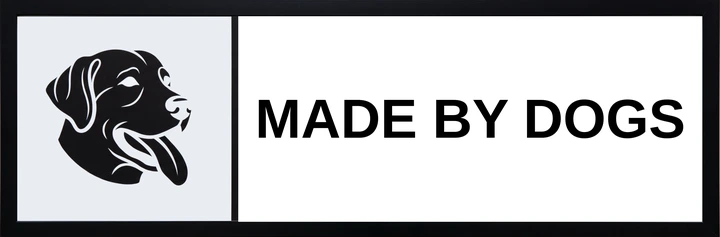
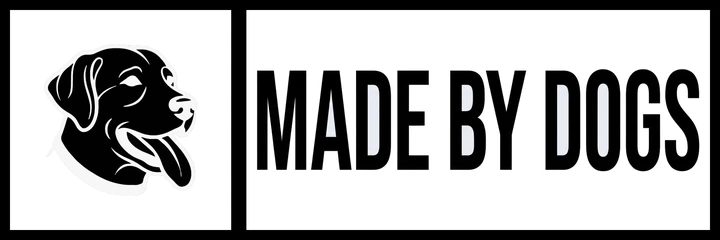
MADE BY DOGS sticker: new main image (uploaded artwork leads the brand files)

diff --git a/index.html b/index.html
@@ -62,21 +62,21 @@
 
   <h2>📦 Brand files — the originals</h2>
   <div class="grid">
-    <a class="tile sticker-tile" href="assets/sticker.webp" download="made-by-dogs-sticker.webp">
-      <div class="thumb light"><img src="assets/sticker.webp" alt="THIS PRODUCT WAS MADE BY DOGS sticker"></div>
-      <div class="lbl">Made by DOGS sticker</div><div class="dl">⤓ WEBP · 360×119</div>
-    </a>
-    <a class="tile sticker-tile" href="assets/sticker-hires.png" download="made-by-dogs-sticker-hires.png">
-      <div class="thumb light"><img src="assets/sticker-hires.png" alt="THIS PRODUCT WAS MADE BY DOGS sticker, high resolution"></div>
-      <div class="lbl">Sticker — high-res / print</div><div class="dl">⤓ PNG · 3584×1184</div>
-    </a>
-    <a class="tile sticker-tile" href="assets/sticker-made-by-dogs.webp" download="made-by-dogs-short-sticker.webp">
+    <a class="tile sticker-tile" href="assets/sticker-made-by-dogs.webp" download="made-by-dogs-sticker.webp">
       <div class="thumb light"><img src="assets/sticker-made-by-dogs.webp" alt="MADE BY DOGS sticker"></div>
-      <div class="lbl">MADE BY DOGS sticker — short</div><div class="dl">⤓ WEBP · 720×237</div>
+      <div class="lbl">MADE BY DOGS sticker — main</div><div class="dl">⤓ WEBP · 720×240</div>
     </a>
-    <a class="tile sticker-tile" href="assets/sticker-made-by-dogs-hires.png" download="made-by-dogs-short-sticker-hires.png">
+    <a class="tile sticker-tile" href="assets/sticker-made-by-dogs-hires.png" download="made-by-dogs-sticker-hires.png">
       <div class="thumb light"><img src="assets/sticker-made-by-dogs-hires.png" alt="MADE BY DOGS sticker, high resolution"></div>
-      <div class="lbl">MADE BY DOGS — high-res / print</div><div class="dl">⤓ PNG · 3584×1184</div>
+      <div class="lbl">MADE BY DOGS — high-res / print</div><div class="dl">⤓ PNG · 1800×600</div>
+    </a>
+    <a class="tile sticker-tile" href="assets/sticker.webp" download="made-by-dogs-sticker-long.webp">
+      <div class="thumb light"><img src="assets/sticker.webp" alt="THIS PRODUCT WAS MADE BY DOGS sticker"></div>
+      <div class="lbl">Sticker — long text</div><div class="dl">⤓ WEBP · 360×119</div>
+    </a>
+    <a class="tile sticker-tile" href="assets/sticker-hires.png" download="made-by-dogs-sticker-long-hires.png">
+      <div class="thumb light"><img src="assets/sticker-hires.png" alt="THIS PRODUCT WAS MADE BY DOGS sticker, high resolution"></div>
+      <div class="lbl">Long text — high-res / print</div><div class="dl">⤓ PNG · 3584×1184</div>
     </a>
     <a class="tile" href="assets/logo-square-1024.png" download="dogs-logo-square-1024.png">
       <div class="thumb light"><img src="assets/logo-square-1024.png" alt="DOGS logo, square"></div>
